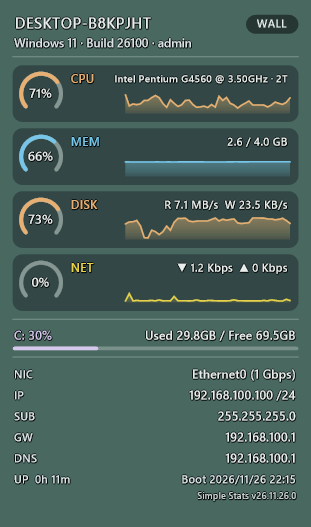
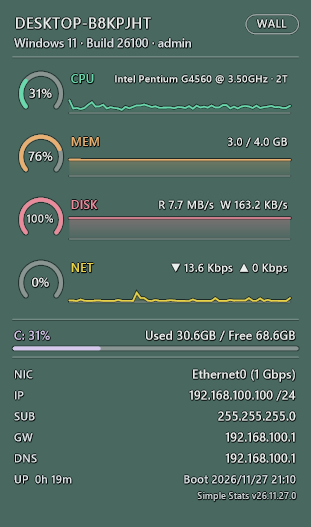
v26.11.27.0

diff --git a/simple-stats.html b/simple-stats.html
@@ -87,7 +87,7 @@
                     <h2 class="section-title">製品説明</h2>
 
                     <p class="lead fw-bold text-accent mb-3">「作業を邪魔せず、PCの状態をひと目で把握する。」</p>
-                    <p class="text-white-75 mb-4">Simple Stats（シンプル・スタッツ）は、PCのリソース状況とネットワーク情報をデスクトップに控えめかつ美しく表示する常駐テレメトリHUDです。Win32 / GDI+ 直描画と .NET 10 NativeAOT により、約 3.0 MB の単一ファイル・実測ワーキングセット約 0.3 MB（プライベート約 7 MB）・ほぼ 0% のCPU負荷で軽快に動作します。</p>
+                    <p class="text-white-75 mb-4">Simple Stats（シンプル・スタッツ）は、PCのリソース状況とネットワーク情報をデスクトップに控えめかつ美しく表示する常駐テレメトリHUDです。Win32 / GDI+ 直描画と .NET 10 NativeAOT により、約 3.0 MB の単一ファイル・超省メモリ設計・ほぼ 0% の低CPU負荷で軽快に動作します。</p>
 
                     <!-- 特徴 6選グリッド -->
                     <div class="row g-4">
@@ -101,7 +101,7 @@
                         </div>
                         <div class="col-md-6">
                             <h3 class="h6 fw-bold text-white"><i class="bi bi-pause-circle text-accent me-2"></i>全画面自動一時停止</h3>
-                            <p class="small text-white-75 mb-0">フルスクリーンゲームやプレゼン実行中は描画と補助タイマーを自動停止し、パフォーマンスや表示を妨げません。</p>
+                            <p class="small text-white-75 mb-0">同じモニターでフルスクリーンゲームやプレゼンが実行されている間は自動で一時非表示にして描画と補助タイマーを停止し、終了時に自動復帰します（別モニター時は継続表示）。</p>
                         </div>
                         <div class="col-md-6">
                             <h3 class="h6 fw-bold text-white"><i class="bi bi-palette text-accent me-2"></i>4テーマ・3レイアウト・3フォントサイズ</h3>
@@ -144,7 +144,7 @@
                             <div class="col-12 col-md-6 text-white-75"><i class="bi bi-code-slash text-accent me-2"></i>ビルド・動画書き出し中のCPU/メモリ/ディスクR/Wとドライブ空き容量の常時監視</div>
                             <div class="col-12 col-md-6 text-white-75"><i class="bi bi-controller text-accent me-2"></i>最前面ゴーストHUD＋全画面自動停止による、普段作業とフルスクリーンゲームの両立</div>
                             <div class="col-12 col-md-6 text-white-75"><i class="bi bi-laptop text-accent me-2"></i>VPNや複数NIC環境でのアクティブIP/CIDR・リンク速度・GW/DNS確認と1クリックコピー</div>
-                            <div class="col-12 col-md-6 text-white-75"><i class="bi bi-window-dock text-accent me-2"></i>サブモニター隅に置く、実測約0.3MBの超軽量デスクトップHUDとして</div>
+                            <div class="col-12 col-md-6 text-white-75"><i class="bi bi-window-dock text-accent me-2"></i>サブモニター隅に置く、超省メモリ＆超軽量のデスクトップHUDとして</div>
                         </div>
                     </div>
                 </section>
@@ -181,7 +181,7 @@
                             </div>
                             <div class="screenshot-description">
                                 <h4 class="h6 fw-bold text-accent"><i class="bi bi-layers me-1"></i>Pure Wallpaper（Standard レイアウト）</h4>
-                                <p class="text-white-50 small mb-0">外枠を省いた壁紙直描スタイル。背景に溶け込みながら、高負荷時の警告色変化もひと目で判別できます。</p>
+                                <p class="text-white-50 small mb-0">外枠・カード内枠・右上モードバッジまで完全透過の壁紙直描スタイル。ダーク縁取りにより、明るい壁紙でもくっきり視認できます。</p>
                             </div>
                         </div>
 
@@ -241,7 +241,7 @@
                             </div>
                             <div class="screenshot-description">
                                 <h4 class="h6 fw-bold text-accent"><i class="bi bi-aspect-ratio me-1"></i>Compact Mini レイアウト</h4>
-                                <p class="text-white-50 small mb-0">ホスト名・IP・4種のアークゲージ・ドライブ容量を横長バーに凝縮。画面隅に最小スペースで常駐できます。</p>
+                                <p class="text-white-50 small mb-0">ホスト名・IP・4種のアークゲージ・ドライブ容量（3台以上は2台ずつ折り返し）を横長バーに凝縮。最小スペースで常駐できます。</p>
                             </div>
                         </div>
                     </div>
@@ -287,7 +287,7 @@
                             </h3>
                             <div id="faqCollapse1" class="accordion-collapse collapse" aria-labelledby="faqHeading1" data-bs-parent="#faqAccordion">
                                 <div class="accordion-body text-white-75 small pt-0 pb-3">
-                                    デフォルトの<strong>「壁紙レイヤー固定」</strong>（HUD右上に <code>WALL</code> 表示）ではウィンドウ背面に貼り付き、<code>Win+D</code> でも消えず、タスクバーや <code>Alt+Tab</code> にも出ません。最前面表示したい場合は<strong>「最前面ゴーストHUD」</strong>に切り替えると、クリック透過かつマウス接近時のみ自動フェードします（<code>Ctrl + Alt</code> 押下中のみ一時操作可）。全画面ゲームやプレゼン中は描画・補助タイマーを自動で一時停止します。
+                                    デフォルトの<strong>「壁紙レイヤー固定」</strong>（HUD右上に <code>WALL</code> 表示）ではウィンドウ背面に貼り付き、<code>Win+D</code> でも消えず、タスクバーや <code>Alt+Tab</code> にも出ません。最前面表示したい場合は<strong>「最前面ゴーストHUD」</strong>に切り替えると、クリック透過かつマウス接近時のみ自動フェードします（<code>Ctrl + Alt</code> 押下中のみ一時操作可）。同じモニターで全画面ゲームやプレゼンが実行されている間は自動で一時非表示にして描画・補助タイマーを停止し、終了時に自動復帰します（別モニター配置時は表示を継続）。
                                 </div>
                             </div>
                         </div>
@@ -300,7 +300,7 @@
                             </h3>
                             <div id="faqCollapse2" class="accordion-collapse collapse" aria-labelledby="faqHeading2" data-bs-parent="#faqAccordion">
                                 <div class="accordion-body text-white-75 small pt-0 pb-3">
-                                    Win32 / GDI+ 直描画と .NET 10 NativeAOT により、約 3.0 MB の単一ファイル・実測ワーキングセット約 0.3 MB（プライベート約 7 MB）・CPU負荷ほぼ 0% で動作します。更新間隔（<code>1s</code>/<code>2s</code>/<code>5s</code>/<code>60s</code>）の調整と全画面自動一時停止にも対応しており、常駐負荷は極小です。
+                                    Win32 / GDI+ 直描画と .NET 10 NativeAOT により、約 3.0 MB の単一ファイル・超省メモリ設計・ほぼ 0% の低CPU負荷で動作します。更新間隔（<code>1s</code>/<code>2s</code>/<code>5s</code>/<code>60s</code>）の調整と全画面自動一時停止にも対応しており、常駐負荷は極小です。
                                 </div>
                             </div>
                         </div>
@@ -339,7 +339,7 @@
                             </h3>
                             <div id="faqCollapse5" class="accordion-collapse collapse" aria-labelledby="faqHeading5" data-bs-parent="#faqAccordion">
                                 <div class="accordion-body text-white-75 small pt-0 pb-3">
-                                    はい、安全です。EVコードサイン証明書を持たないため初回起動時に警告が出る場合がありますが、<strong>「詳細情報」→「実行」</strong>で起動できます。外部通信ゼロで、VirusTotal でも検知数ゼロ（0/66）を確認済みです（<a href="https://www.virustotal.com/gui/file/68d644decfef55ed2755a943aed8351d888d35e75d7e1e760ccc6a4858f54ab8?nocache=1" target="_blank" rel="noopener noreferrer" class="text-accent text-decoration-none">スキャンレポートを見る (0/66)</a>）。
+                                    はい、安全です。EVコードサイン証明書を持たないため初回起動時に警告が出る場合がありますが、<strong>「詳細情報」→「実行」</strong>で起動できます。外部通信ゼロで、VirusTotal でも検知数ゼロ（0/66）を確認済みです（<a href="https://www.virustotal.com/gui/file/fd6dda3867e73fdb3d732eb21034cc67718221a37e7c619863ceb6353cb171bb?nocache=1" target="_blank" rel="noopener noreferrer" class="text-accent text-decoration-none">スキャンレポートを見る (0/66)</a>）。
                                 </div>
                             </div>
                         </div>
@@ -366,10 +366,20 @@
                     <div class="card-custom">
                         <ul class="changelog-list mb-0">
                             <li class="changelog-item">
-                                <span class="badge bg-accent me-2">v26.11.26.0</span> <span class="text-white-50 small">2026.11.26</span>
+                                <span class="badge bg-accent me-2">v26.11.27.0</span> <span class="text-white-50 small">2026.11.27</span>
                                 <div class="mt-2 ps-1 text-white-75 small">
                                     <ul class="mb-0 ps-3">
-                                        <li>Win32 / GDI+ 直描画 ＆ .NET 10 NativeAOT へ全面刷新（約3.0 MB単一EXE・実測ワーキングセット約0.3 MB／プライベート約7 MB・超低CPU負荷）</li>
+                                        <li>全画面自動一時停止の挙動を改善し、同じモニターでのフルスクリーン実行中はHUDを一時非表示・終了時に自動復帰するよう修正（最前面ゴーストHUDが画面上に残る不具合を解消／別モニター時は継続表示）</li>
+                                        <li>Compact Mini レイアウトで固定ドライブが3台以上ある環境でも見切れないよう、1行2台ずつの自動折り返し・高さ拡張に対応</li>
+                                        <li>Pure Wallpaper テーマでグラフカード内枠および右上モードバッジ（<code>WALL</code> 等）背景を完全透過化し、ダーク縁取りで視認性を改善</li>
+                                    </ul>
+                                </div>
+                            </li>
+                            <li class="changelog-item mt-3">
+                                <span class="badge bg-secondary me-2">v26.11.26.0</span> <span class="text-white-50 small">2026.11.26</span>
+                                <div class="mt-2 ps-1 text-white-75 small">
+                                    <ul class="mb-0 ps-3">
+                                        <li>Win32 / GDI+ 直描画 ＆ .NET 10 NativeAOT へ全面刷新（約3.0 MB単一EXE・超省メモリ設計・超低CPU負荷）</li>
                                         <li>「壁紙レイヤー固定」（デフォルト・<code>Win+D</code>維持）と「最前面ゴーストHUD」（透過フェード・<code>Ctrl+Alt</code>一時操作）、全画面自動一時停止を搭載</li>
                                         <li>4テーマ・3スリムレイアウト・3段階フォント・60秒スパークライン・16pxマグネット吸着・更新間隔（<code>1s</code>/<code>2s</code>/<code>5s</code>/<code>60s</code>）に対応</li>
                                         <li>タスクマネージャー準拠CPU（<code>PDH</code>/<code>CPUID</code>）・物理ディスクI/O（R/W）・全ドライブ容量バー・アクティブNIC自動追従（リンク速度/CIDR）・起動日時表示を実装</li>

diff --git a/en/simple-stats.html b/en/simple-stats.html
@@ -87,7 +87,7 @@
                     <h2 class="section-title">Product Overview</h2>
 
                     <p class="lead fw-bold text-accent mb-3">"Essential PC and network telemetry at a glance—without getting in your way."</p>
-                    <p class="text-white-75 mb-4">Simple Stats is an ultra-lightweight desktop telemetry HUD that keeps essential PC resource and network metrics cleanly visible without cluttering your workflow. Powered by pure Win32 / GDI+ rendering and .NET 10 NativeAOT, it ships as a ~3.0 MB single executable running at ~0.3 MB working set (~7 MB private bytes) and near-zero CPU.</p>
+                    <p class="text-white-75 mb-4">Simple Stats is an ultra-lightweight desktop telemetry HUD that keeps essential PC resource and network metrics cleanly visible without cluttering your workflow. Powered by pure Win32 / GDI+ rendering and .NET 10 NativeAOT, it ships as a ~3.0 MB single executable with a minimal memory footprint and near-zero CPU overhead.</p>
 
                     <!-- 6-Feature Grid -->
                     <div class="row g-4">
@@ -101,7 +101,7 @@
                         </div>
                         <div class="col-md-6">
                             <h3 class="h6 fw-bold text-white"><i class="bi bi-pause-circle text-accent me-2"></i>Fullscreen Auto-Pause</h3>
-                            <p class="small text-white-75 mb-0">Automatically suspends rendering and background timers during fullscreen games and presentations so nothing interferes.</p>
+                            <p class="small text-white-75 mb-0">Automatically hides the HUD and suspends rendering/timers while a fullscreen game or presentation runs on the same monitor, restoring it on exit (stays visible on secondary monitors).</p>
                         </div>
                         <div class="col-md-6">
                             <h3 class="h6 fw-bold text-white"><i class="bi bi-palette text-accent me-2"></i>4 Themes, 3 Layouts &amp; 3 Font Sizes</h3>
@@ -144,7 +144,7 @@
                             <div class="col-12 col-md-6 text-white-75"><i class="bi bi-code-slash text-accent me-2"></i>Live CPU, RAM, Disk R/W, and drive-space tracking in Wallpaper Layer Mode during builds or rendering</div>
                             <div class="col-12 col-md-6 text-white-75"><i class="bi bi-controller text-accent me-2"></i>Seamless work and fullscreen gaming with Ghost Overlay auto-fade and Fullscreen Auto-Pause</div>
                             <div class="col-12 col-md-6 text-white-75"><i class="bi bi-laptop text-accent me-2"></i>Checking active IP/CIDR, link speed, Gateway, and DNS across VPNs/multi-NIC setups with 1-click copy</div>
-                            <div class="col-12 col-md-6 text-white-75"><i class="bi bi-window-dock text-accent me-2"></i>Ultra-light (~0.3 MB working set) telemetry HUD pinned cleanly to a secondary monitor</div>
+                            <div class="col-12 col-md-6 text-white-75"><i class="bi bi-window-dock text-accent me-2"></i>Ultra-light, minimal-memory telemetry HUD pinned cleanly to a secondary monitor</div>
                         </div>
                     </div>
                 </section>
@@ -181,7 +181,7 @@
                             </div>
                             <div class="screenshot-description">
                                 <h4 class="h6 fw-bold text-accent"><i class="bi bi-layers me-1"></i>Pure Wallpaper (Standard Layout)</h4>
-                                <p class="text-white-50 small mb-0">Frameless shadowed style that blends directly onto your wallpaper while preserving crisp readability and load warning colors.</p>
+                                <p class="text-white-50 small mb-0">Fully transparent frameless style (including card interiors and mode badge) with dark halo outlines for crisp readability on any wallpaper.</p>
                             </div>
                         </div>
 
@@ -241,7 +241,7 @@
                             </div>
                             <div class="screenshot-description">
                                 <h4 class="h6 fw-bold text-accent"><i class="bi bi-aspect-ratio me-1"></i>Compact Mini Layout</h4>
-                                <p class="text-white-50 small mb-0">Horizontal mini strip condensing hostname, IP, 4 arc gauges, and drive space into minimal desktop real estate.</p>
+                                <p class="text-white-50 small mb-0">Horizontal mini strip condensing hostname, IP, 4 arc gauges, and drive space (auto-wrapping at 2 drives per row for 3+ drives) into minimal screen space.</p>
                             </div>
                         </div>
                     </div>
@@ -287,7 +287,7 @@
                             </h3>
                             <div id="faqCollapse1" class="accordion-collapse collapse" aria-labelledby="faqHeading1" data-bs-parent="#faqAccordion">
                                 <div class="accordion-body text-white-75 small pt-0 pb-3">
-                                    No. In default <strong>Wallpaper Layer Mode</strong> (shown as <code>WALL</code> in the header), the HUD stays behind windows, survives <code>Win+D</code>, and stays hidden from the Taskbar and <code>Alt+Tab</code>. In <strong>Ghost Overlay Mode</strong>, it stays always-on-top with click-through and fades out automatically when your cursor nears (hold <code>Ctrl + Alt</code> to temporarily interact). <strong>Fullscreen Auto-Pause</strong> suspends rendering and timers during fullscreen games and presentations.
+                                    No. In default <strong>Wallpaper Layer Mode</strong> (shown as <code>WALL</code> in the header), the HUD stays behind windows, survives <code>Win+D</code>, and stays hidden from the Taskbar and <code>Alt+Tab</code>. In <strong>Ghost Overlay Mode</strong>, it stays always-on-top with click-through and fades out automatically when your cursor nears (hold <code>Ctrl + Alt</code> to temporarily interact). <strong>Fullscreen Auto-Pause</strong> automatically hides the HUD and suspends timers while a fullscreen game or presentation runs on the same monitor, restoring it on exit (while staying visible on other monitors).
                                 </div>
                             </div>
                         </div>
@@ -300,7 +300,7 @@
                             </h3>
                             <div id="faqCollapse2" class="accordion-collapse collapse" aria-labelledby="faqHeading2" data-bs-parent="#faqAccordion">
                                 <div class="accordion-body text-white-75 small pt-0 pb-3">
-                                    Built with pure Win32 / GDI+ and .NET 10 NativeAOT, it ships as a ~3.0 MB single file and runs at ~0.3 MB working set (~7 MB private bytes) with near-zero CPU. Adjustable refresh intervals (<code>1s</code>/<code>2s</code>/<code>5s</code>/<code>60s</code>) and Fullscreen Auto-Pause keep battery impact negligible.
+                                    Built with pure Win32 / GDI+ and .NET 10 NativeAOT, it ships as a ~3.0 MB single file and runs with a minimal memory footprint and near-zero CPU. Adjustable refresh intervals (<code>1s</code>/<code>2s</code>/<code>5s</code>/<code>60s</code>) and Fullscreen Auto-Pause keep battery impact negligible.
                                 </div>
                             </div>
                         </div>
@@ -339,7 +339,7 @@
                             </h3>
                             <div id="faqCollapse5" class="accordion-collapse collapse" aria-labelledby="faqHeading5" data-bs-parent="#faqAccordion">
                                 <div class="accordion-body text-white-75 small pt-0 pb-3">
-                                    Yes, completely safe. Because this indie utility lacks an EV code-signing certificate, SmartScreen may appear once—click <strong>More info</strong> → <strong>Run anyway</strong>. It makes zero external requests and scored 0/66 detections on VirusTotal (<a href="https://www.virustotal.com/gui/file/68d644decfef55ed2755a943aed8351d888d35e75d7e1e760ccc6a4858f54ab8?nocache=1" target="_blank" rel="noopener noreferrer" class="text-accent text-decoration-none">View Scan Report (0/66)</a>).
+                                    Yes, completely safe. Because this indie utility lacks an EV code-signing certificate, SmartScreen may appear once—click <strong>More info</strong> → <strong>Run anyway</strong>. It makes zero external requests and scored 0/66 detections on VirusTotal (<a href="https://www.virustotal.com/gui/file/fd6dda3867e73fdb3d732eb21034cc67718221a37e7c619863ceb6353cb171bb?nocache=1" target="_blank" rel="noopener noreferrer" class="text-accent text-decoration-none">View Scan Report (0/66)</a>).
                                 </div>
                             </div>
                         </div>
@@ -366,10 +366,20 @@
                     <div class="card-custom">
                         <ul class="changelog-list mb-0">
                             <li class="changelog-item">
-                                <span class="badge bg-accent me-2">v26.11.26.0</span> <span class="text-white-50 small">Nov 26, 2026</span>
+                                <span class="badge bg-accent me-2">v26.11.27.0</span> <span class="text-white-50 small">Nov 27, 2026</span>
                                 <div class="mt-2 ps-1 text-white-75 small">
                                     <ul class="mb-0 ps-3">
-                                        <li>Rebuilt on pure Win32 / GDI+ &amp; .NET 10 NativeAOT (~3.0 MB single file, ~0.3 MB working set / ~7 MB private bytes, near-zero CPU)</li>
+                                        <li>Fixed per-monitor Fullscreen Auto-Pause to temporarily hide and auto-restore the HUD when a fullscreen app runs on the same monitor (prevents Ghost Overlay from staying on top; stays visible on other monitors)</li>
+                                        <li>Fixed multi-drive text clipping in Compact Mini layout by wrapping at 2 drives per row and dynamically expanding HUD height</li>
+                                        <li>Polished Pure Wallpaper theme with fully transparent card interiors and mode badge (<code>WALL</code> / <code>GHOST</code> / <code>LOCK</code>) plus dark halo outlines for crisp legibility on any wallpaper</li>
+                                    </ul>
+                                </div>
+                            </li>
+                            <li class="changelog-item mt-3">
+                                <span class="badge bg-secondary me-2">v26.11.26.0</span> <span class="text-white-50 small">Nov 26, 2026</span>
+                                <div class="mt-2 ps-1 text-white-75 small">
+                                    <ul class="mb-0 ps-3">
+                                        <li>Rebuilt on pure Win32 / GDI+ &amp; .NET 10 NativeAOT (~3.0 MB single file, minimal memory footprint, near-zero CPU)</li>
                                         <li>Added Wallpaper Layer Mode (default, survives <code>Win+D</code>) and Ghost Overlay Mode (click-through, proximity auto-fade, <code>Ctrl+Alt</code> unlock) plus Fullscreen Auto-Pause</li>
                                         <li>Added 4 themes, 3 slim layouts, 3 font sizes, 60s sparklines, 16px magnetic snapping, and refresh intervals (<code>1s</code>/<code>2s</code>/<code>5s</code>/<code>60s</code>)</li>
                                         <li>Implemented Task Manager-aligned CPU (<code>PDH</code>/<code>CPUID</code>), physical Disk I/O (R/W), per-drive capacity bars, active NIC tracking (link speed/CIDR), and boot/uptime display</li>

diff --git a/index.html b/index.html
@@ -65,13 +65,26 @@
                 <!-- 最新の5件を表示（古いお知らせは下記のアコーディオン内に格納） -->
                 <div class="accordion-item bg-dark text-white">
                     <h2 class="accordion-header">
+                        <button class="accordion-button collapsed bg-dark text-white shadow-none" type="button" data-bs-toggle="collapse" data-bs-target="#info-item-20">
+                            <span class="text-accent fw-bold me-3">2026.11.27</span> Simple Stats v26.11.27.0 アップデート
+                        </button>
+                    </h2>
+                    <div id="info-item-20" class="accordion-collapse collapse" data-bs-parent="#infoAccordion">
+                        <div class="accordion-body text-white-50 border-top border-secondary small">
+                            同じモニターで全画面アプリ実行時に最前面ゴーストHUDを含め一時非表示・終了時自動復帰するよう修正（別モニター時は継続表示）。Compact Mini の3台以上ドライブ折り返し表示および Pure Wallpaper テーマの完全透過・縁取り描画に対応しました。
+                        </div>
+                    </div>
+                </div>
+
+                <div class="accordion-item bg-dark text-white">
+                    <h2 class="accordion-header border-top border-secondary">
                         <button class="accordion-button collapsed bg-dark text-white shadow-none" type="button" data-bs-toggle="collapse" data-bs-target="#info-item-19">
                             <span class="text-accent fw-bold me-3">2026.11.26</span> Simple Stats v26.11.26.0 アップデート
                         </button>
                     </h2>
                     <div id="info-item-19" class="accordion-collapse collapse" data-bs-parent="#infoAccordion">
                         <div class="accordion-body text-white-50 border-top border-secondary small">
-                            Win32 / GDI+ ＆ .NET 10 NativeAOT へ全面刷新（約3.0 MB・実測ワーキングセット約0.3 MB）。壁紙レイヤー固定／最前面ゴーストHUD・全画面自動停止、4テーマ・3レイアウト、60秒スパークライン、ドライブ容量バー、アクティブNIC自動追従、1クリックコピー、レジストリ不使用の自動起動、日英自動切替に対応しました。
+                            Win32 / GDI+ ＆ .NET 10 NativeAOT へ全面刷新（約3.0 MB・超省メモリ設計）。壁紙レイヤー固定／最前面ゴーストHUD・全画面自動停止、4テーマ・3レイアウト、60秒スパークライン、ドライブ容量バー、アクティブNIC自動追従、1クリックコピー、レジストリ不使用の自動起動、日英自動切替に対応しました。
                         </div>
                     </div>
                 </div>
@@ -115,19 +128,6 @@
                     </div>
                 </div>
 
-                <div class="accordion-item bg-dark text-white">
-                    <h2 class="accordion-header border-top border-secondary">
-                        <button class="accordion-button collapsed bg-dark text-white shadow-none" type="button" data-bs-toggle="collapse" data-bs-target="#info-item-15">
-                            <span class="text-accent fw-bold me-3">2026.11.07</span> ClickCapture v26.11.7.0 アップデート
-                        </button>
-                    </h2>
-                    <div id="info-item-15" class="accordion-collapse collapse" data-bs-parent="#infoAccordion">
-                        <div class="accordion-body text-white-50 border-top border-secondary small">
-                            ライセンス認証およびバックグラウンド検証処理の改善（オフライン猶予期間の延長、移行時のライセンス枠保護、セキュリティ強化）、各種環境でのキャプチャ処理・動作安定性を向上しました。
-                        </div>
-                    </div>
-                </div>
-
                 <!-- 過去のお知らせ (最新5件より古いものをアコーディオンに格納) -->
                 <div class="accordion-item bg-dark text-white border-top border-secondary">
                     <h3 class="accordion-header" id="olderInfoHeading">
@@ -139,6 +139,19 @@
                         <div class="accordion accordion-flush" id="olderInfoAccordion">
 
                             <div class="accordion-item bg-dark text-white">
+                                <h3 class="accordion-header">
+                                    <button class="accordion-button collapsed bg-dark text-white shadow-none" type="button" data-bs-toggle="collapse" data-bs-target="#info-item-15">
+                                        <span class="text-accent fw-bold me-3">2026.11.07</span> ClickCapture v26.11.7.0 アップデート
+                                    </button>
+                                </h3>
+                                <div id="info-item-15" class="accordion-collapse collapse" data-bs-parent="#olderInfoAccordion">
+                                    <div class="accordion-body text-white-50 border-top border-secondary small">
+                                        ライセンス認証およびバックグラウンド検証処理の改善（オフライン猶予期間の延長、移行時のライセンス枠保護、セキュリティ強化）、各種環境でのキャプチャ処理・動作安定性を向上しました。
+                                    </div>
+                                </div>
+                            </div>
+
+                            <div class="accordion-item bg-dark text-white border-top border-secondary">
                                 <h3 class="accordion-header">
                                     <button class="accordion-button collapsed bg-dark text-white shadow-none" type="button" data-bs-toggle="collapse" data-bs-target="#info-item-14">
                                         <span class="text-accent fw-bold me-3">2026.11.03</span> ClickCapture v26.11.3.0 アップデート

diff --git a/en/index.html b/en/index.html
@@ -65,13 +65,26 @@
                 <!-- Show top 5 announcements (older items are placed in the accordion below) -->
                 <div class="accordion-item bg-dark text-white">
                     <h2 class="accordion-header">
+                        <button class="accordion-button collapsed bg-dark text-white shadow-none" type="button" data-bs-toggle="collapse" data-bs-target="#info-item-20">
+                            <span class="text-accent fw-bold me-3">2026.11.27</span> Simple Stats v26.11.27.0 Update
+                        </button>
+                    </h2>
+                    <div id="info-item-20" class="accordion-collapse collapse" data-bs-parent="#infoAccordion">
+                        <div class="accordion-body text-white-50 border-top border-secondary small">
+                            Fixed per-monitor Fullscreen Auto-Pause to temporarily hide and auto-restore Ghost Overlay during fullscreen apps (stays visible on secondary monitors), added 2-per-row multi-drive wrapping in Compact Mini, and polished Pure Wallpaper full transparency with dark halo outlines.
+                        </div>
+                    </div>
+                </div>
+
+                <div class="accordion-item bg-dark text-white">
+                    <h2 class="accordion-header border-top border-secondary">
                         <button class="accordion-button collapsed bg-dark text-white shadow-none" type="button" data-bs-toggle="collapse" data-bs-target="#info-item-19">
                             <span class="text-accent fw-bold me-3">2026.11.26</span> Simple Stats v26.11.26.0 Update
                         </button>
                     </h2>
                     <div id="info-item-19" class="accordion-collapse collapse" data-bs-parent="#infoAccordion">
                         <div class="accordion-body text-white-50 border-top border-secondary small">
-                            Rebuilt on native Win32 / GDI+ and .NET 10 NativeAOT (~3.0 MB, ~0.3 MB working set). Added Wallpaper Layer &amp; Ghost Overlay modes with Fullscreen Auto-Pause, 4 themes, 3 layouts, 60s sparklines, per-drive bars, active NIC tracking, 1-click copy, zero-registry Startup, and automatic EN/JA UI.
+                            Rebuilt on native Win32 / GDI+ and .NET 10 NativeAOT (~3.0 MB, minimal memory footprint). Added Wallpaper Layer &amp; Ghost Overlay modes with Fullscreen Auto-Pause, 4 themes, 3 layouts, 60s sparklines, per-drive bars, active NIC tracking, 1-click copy, zero-registry Startup, and automatic EN/JA UI.
                         </div>
                     </div>
                 </div>
@@ -115,19 +128,6 @@
                     </div>
                 </div>
 
-                <div class="accordion-item bg-dark text-white">
-                    <h2 class="accordion-header border-top border-secondary">
-                        <button class="accordion-button collapsed bg-dark text-white shadow-none" type="button" data-bs-toggle="collapse" data-bs-target="#info-item-15">
-                            <span class="text-accent fw-bold me-3">2026.11.07</span> ClickCapture v26.11.7.0 Update
-                        </button>
-                    </h2>
-                    <div id="info-item-15" class="accordion-collapse collapse" data-bs-parent="#infoAccordion">
-                        <div class="accordion-body text-white-50 border-top border-secondary small">
-                            Improved license authentication and background verification (extended offline grace period, license seat protection, and security enhancements), and enhanced capture stability across various display environments.
-                        </div>
-                    </div>
-                </div>
-
                 <!-- Older Announcements (Items older than the top 5 are stored in this accordion) -->
                 <div class="accordion-item bg-dark text-white border-top border-secondary">
                     <h3 class="accordion-header" id="olderInfoHeading">
@@ -139,6 +139,19 @@
                         <div class="accordion accordion-flush" id="olderInfoAccordion">
 
                             <div class="accordion-item bg-dark text-white">
+                                <h3 class="accordion-header">
+                                    <button class="accordion-button collapsed bg-dark text-white shadow-none" type="button" data-bs-toggle="collapse" data-bs-target="#info-item-15">
+                                        <span class="text-accent fw-bold me-3">2026.11.07</span> ClickCapture v26.11.7.0 Update
+                                    </button>
+                                </h3>
+                                <div id="info-item-15" class="accordion-collapse collapse" data-bs-parent="#olderInfoAccordion">
+                                    <div class="accordion-body text-white-50 border-top border-secondary small">
+                                        Improved license authentication and background verification (extended offline grace period, license seat protection, and security enhancements), and enhanced capture stability across various display environments.
+                                    </div>
+                                </div>
+                            </div>
+
+                            <div class="accordion-item bg-dark text-white border-top border-secondary">
                                 <h3 class="accordion-header">
                                     <button class="accordion-button collapsed bg-dark text-white shadow-none" type="button" data-bs-toggle="collapse" data-bs-target="#info-item-14">
                                         <span class="text-accent fw-bold me-3">2026.11.03</span> ClickCapture v26.11.3.0 Update
